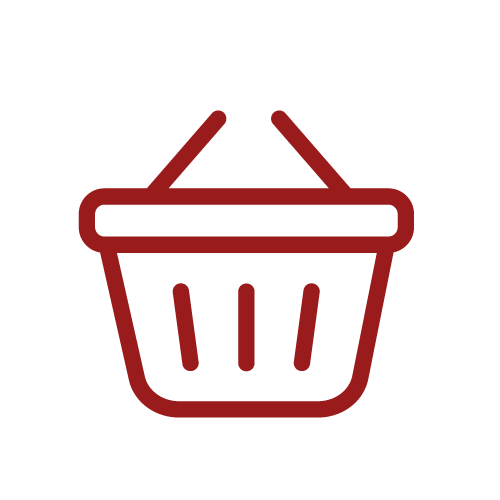
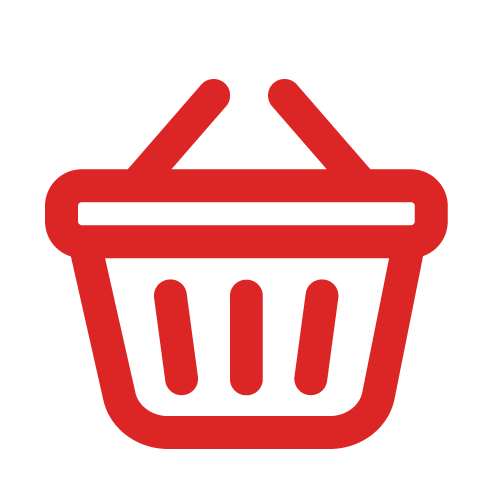
부분수정

diff --git a/src/components/home/Header.js b/src/components/home/Header.js
@@ -5,7 +5,7 @@ const Header = () => {
   return (
     <div>
       <div
-        className="flex bg-gray-100
+        className="flex bg-white border-b-2 border-slate-100
       "
       >
         <div className="navbar navbar-expand-sm relative flex items-center justify-between w-full ">
@@ -19,8 +19,8 @@ const Header = () => {
           <div className="flex">
             <input
               type="search"
-              className="  ml-20  px-20  mr-3 text-base font-normal
-
+              className="  ml-20  px-20  mr-4 text font-normal
+              drop-shadow
         border-gray-300 rounded transition
        ease-in-out m-0 focus:text-gray-700 focus:bg-white
         focus:border-red-600 
@@ -31,10 +31,9 @@ const Header = () => {
               onChange={() => {}}
             />
             <button
-              className="btn px-3 py-2 p bg-red-800 text-white font-medium text-xs 
+              className="btn px-3 py-3 p bg-red-600 text-white font-medium text-xs 
               leading-tight uppercase rounded shadow-md
-               hover:bg-red-900 hover:shadow-lg
-                focus:bg-gray-700  focus:shadow-lg focus:outline-none focus:ring-0 active:bg-red-800 active:shadow-lg transition duration-150 ease-in-out flex items-center"
+               hover:bg-red-700 hover:shadow-lg"
               type="button"
               id="button-addon2"
             >
@@ -91,7 +90,7 @@ const Header = () => {
                 alt="장바구니"
               ></img>
 
-              <span className="text-white bg-red-700 absolute  rounded-full text-xs py-1 px-2">
+              <span className="text-white bg-red-600 absolute  rounded-full text-xs py-1 px-2">
                 1
               </span>
             </button>

diff --git a/src/components/detail/ListItem.js b/src/components/detail/ListItem.js
@@ -5,7 +5,8 @@ const ListItem = ({ item }) => {
   return (
     <li>
       <Link to={`/about/${item.storeInfo.siSeq}`}>
-        <div className="flex flex-col max-w-3xl border-b-2 p-6 mx-auto sm:p-10 dark:bg-gray-900 dark:text-gray-100">
+        <div className="flex flex-col max-w-3xl border-b-2 p-6 mx-auto sm:p-8
+         dark:bg-gray-900 dark:text-gray-100">
           <div className="flex flex-col py-6 sm:flex-row sm:justify-between">
             <div className="flex w-1/2 space-x-2 sm:space-x-4">
               <img
@@ -42,7 +43,7 @@ const ListItem = ({ item }) => {
               <div className="text-right">
                 <button
                   type="button"
-                  className="text-white mt-7 bg-rose-600 hover:bg-rose-700 focus:outline-none focus:ring-4 focus:ring-gray-300 font-medium rounded-full text-sm px-5 py-2.5 text-center mr-2 mb-2 dark:bg-gray-600 dark:hover:bg-gray-700 dark:focus:ring-gray-800"
+                  className="text-white mt-7 bg-red-600 hover:bg-red-700 focus:outline-none focus:ring-4 focus:ring-gray-300 font-medium rounded-full text-sm px-5 py-2.5 text-center mr-2 mb-2 dark:bg-gray-600 dark:hover:bg-gray-700 dark:focus:ring-gray-800"
                 >
                   선택하기
                 </button>
